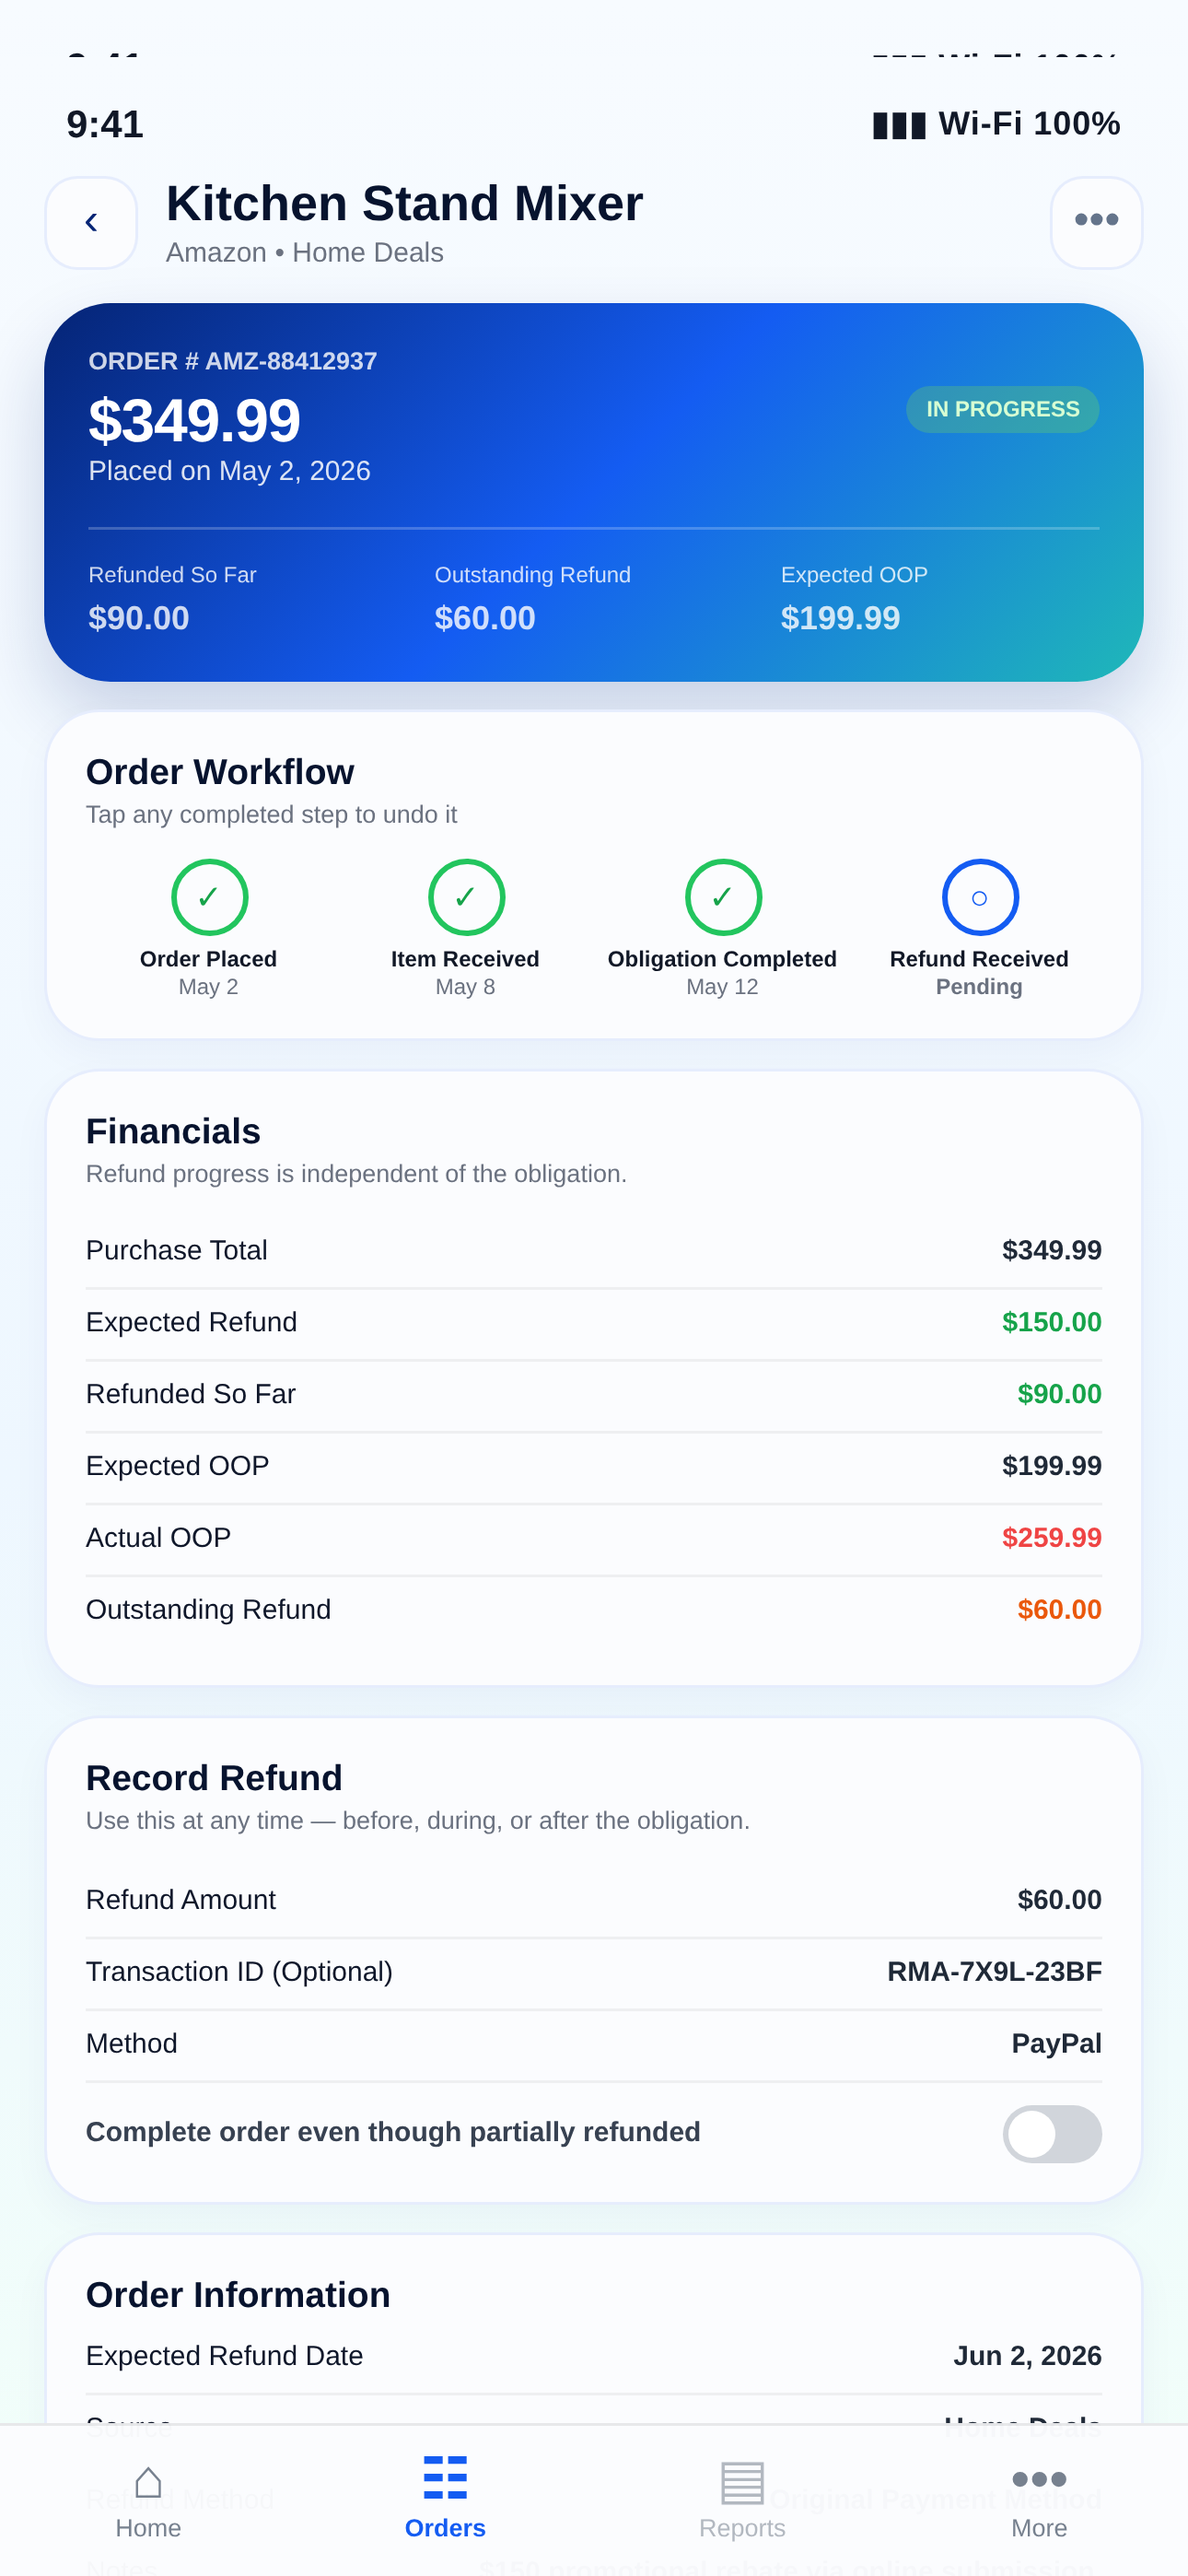
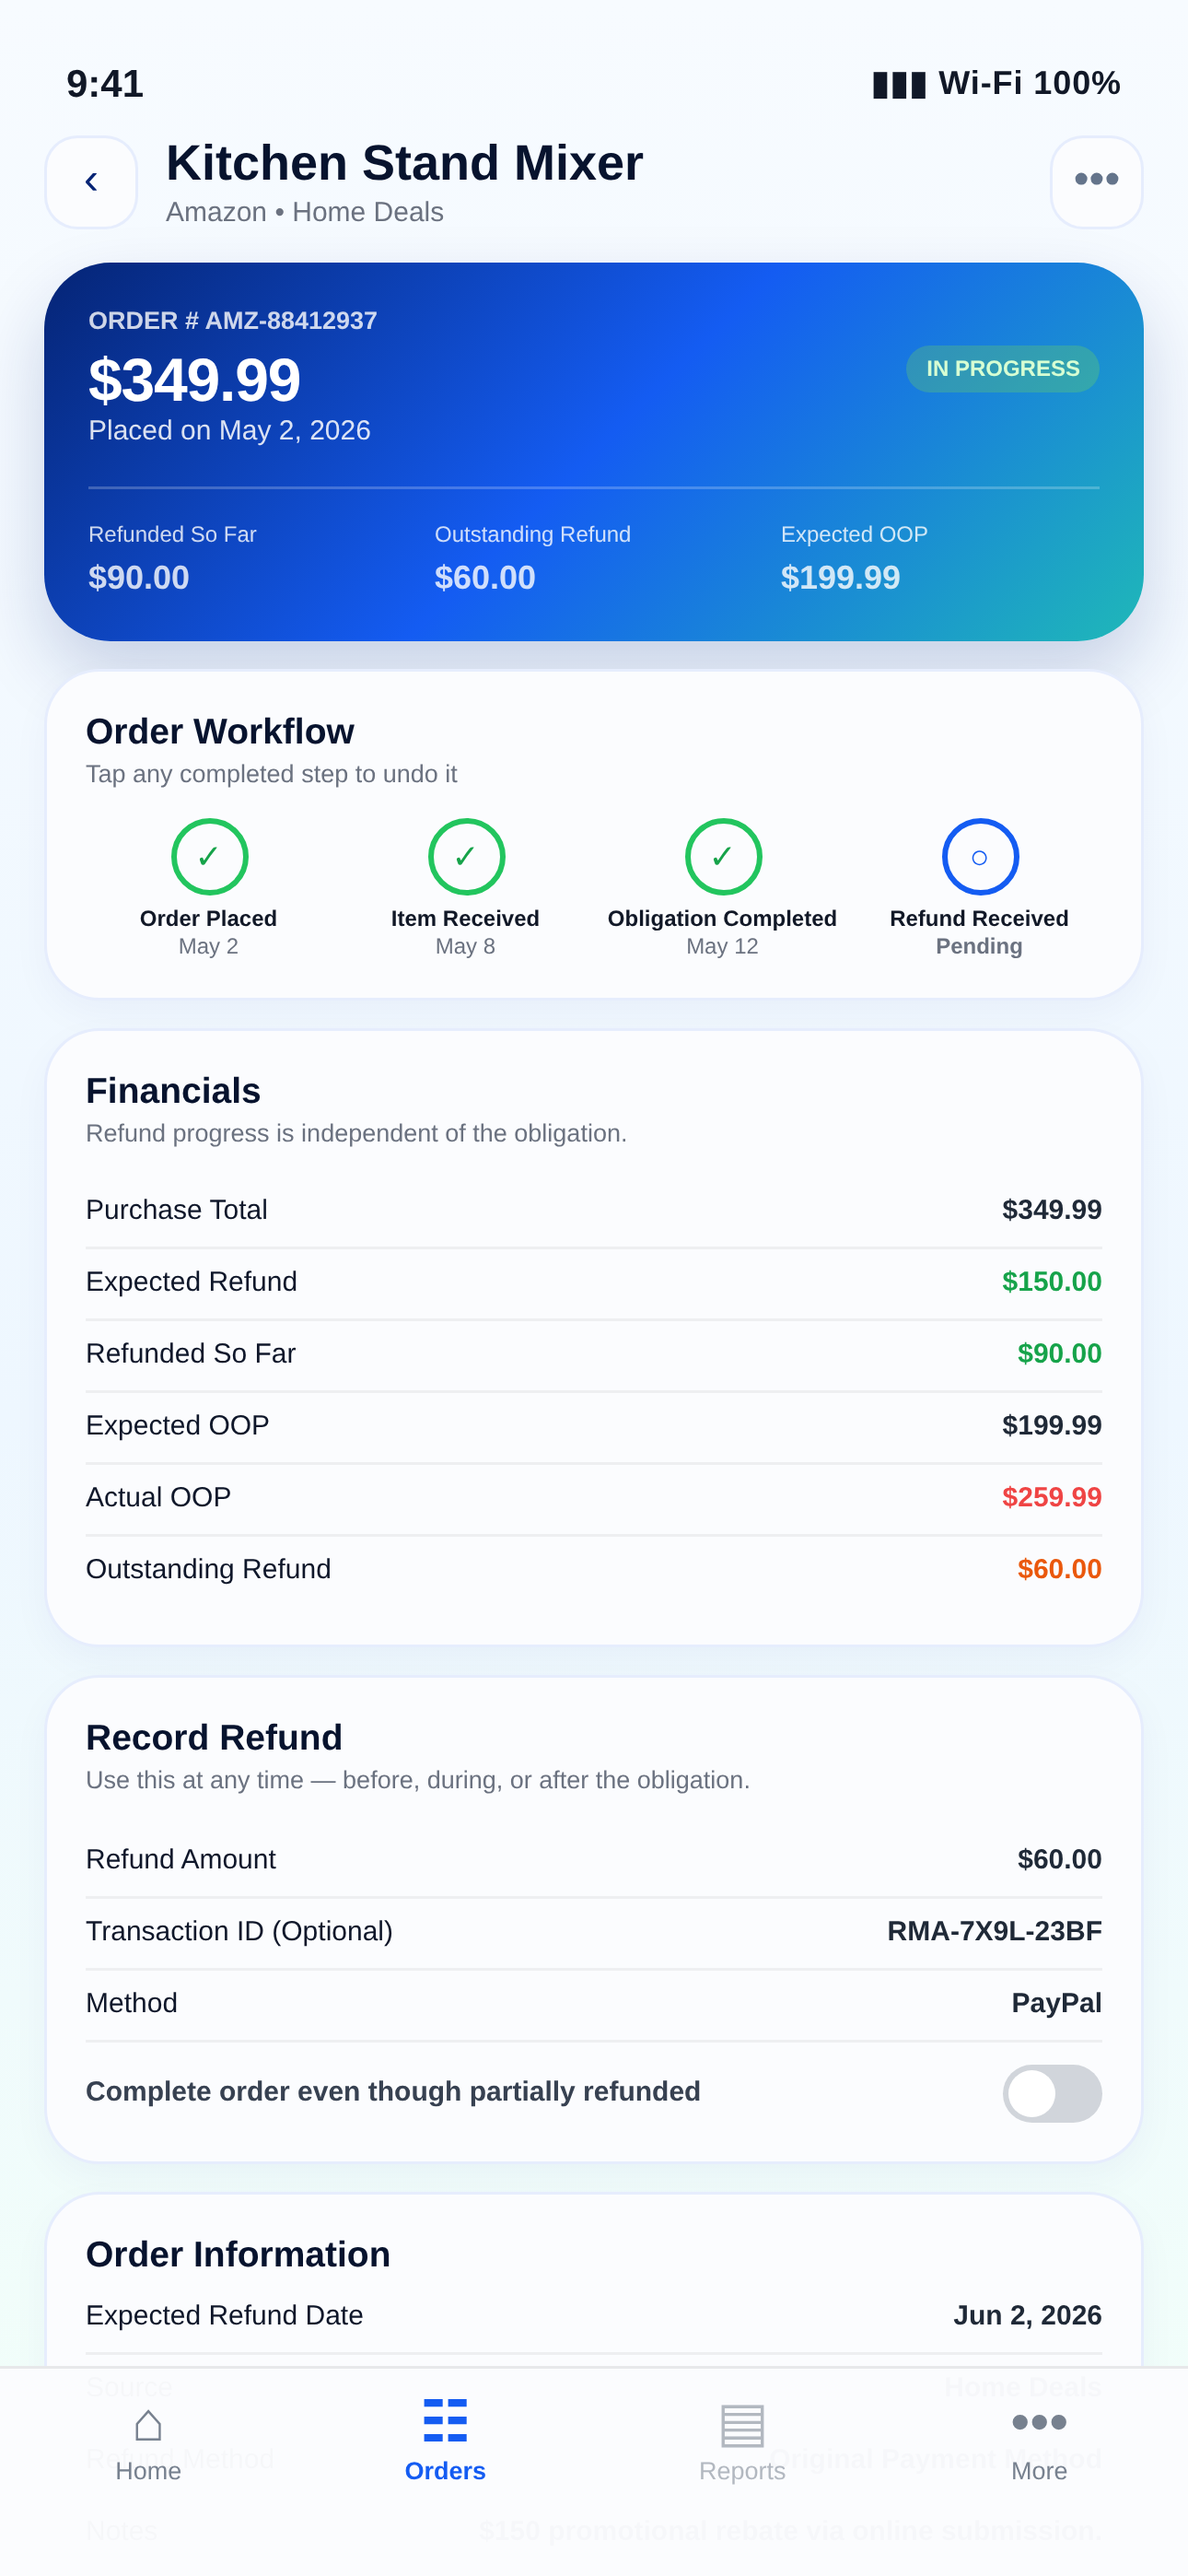
Add files via upload

diff --git a/styles.css b/styles.css
@@ -585,3 +585,16 @@ nav .rebatify-plus-text{
 .phone-shot::after{
   top:18px !important;
 }
+
+
+/* Clean Dynamic Island pass:
+   previews are freshly rendered with a small native top-safe offset.
+   No pixel shifting or duplicated status-bar content. */
+.phone-frame::before,
+.phone-shot::before{
+  top:12px !important;
+}
+.phone-frame::after,
+.phone-shot::after{
+  top:18px !important;
+}
